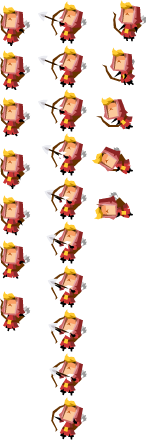
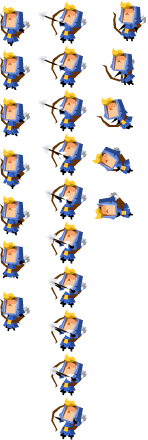
添加弓箭手

diff --git a/scripts/app/components/chars/archer.js b/scripts/app/components/chars/archer.js
@@ -1,0 +1,63 @@
+define(function(require, exports, module){
+	var Kinetic = require('kinetic');
+	var oo = require('xiaoming/oo');
+	var AbstractChar = require('./abstract-char');
+	var resourceLoader = require('xiaoming/resource-loader');
+
+	var Archer = function(options){
+		this._initArcher(options);
+	};
+
+	Archer.prototype = {
+		_initArcher: function(options){
+			this.options = oo.mix({
+				image: resourceLoader.get('archer'),
+				darkImage: resourceLoader.get('archer_dark'),
+				fixX: -8,
+				fixY: -16,
+				defaultAnimation: 'idle',
+				frameRate: 8,
+				index: 0,
+				cx: 0,
+				cy: 0,
+				animation: {
+					idle: [
+						{x: 0, y: 0, width: 36, height: 48},
+						{x: 0, y: 48, width: 36, height: 48},
+						{x: 0, y: 96, width: 36, height: 48},
+						{x: 0, y: 144, width: 36, height: 48},
+						{x: 0, y: 192, width: 36, height: 48},
+						{x: 0, y: 240, width: 36, height: 48},
+						{x: 0, y: 288, width: 36, height: 48},
+						{x: 0, y: 336, width: 36, height: 48}
+					],
+					atk: [
+						{x: 36, y: 0, width:56, height:44},
+						{x: 36, y: 44, width:56, height:44},
+						{x: 36, y: 88, width:56, height:44},
+						{x: 36, y: 132, width:56, height:44},
+						{x: 36, y: 176, width:56, height:44},
+						{x: 36, y: 220, width:56, height:44},
+						{x: 36, y: 264, width:56, height:44},
+						{x: 36, y: 308, width:56, height:44},
+						{x: 36, y: 352, width:56, height:44},
+						{x: 36, y: 396, width:56, height:44}
+					],
+					dead: [
+						{x: 92, y: 0, width:56, height:44},
+						{x: 92, y: 44, width:56, height:44},
+						{x: 92, y: 88, width:56, height:44},
+						{x: 92, y: 132, width:56, height:44},
+						{x: 92, y: 176, width:56, height:44}
+					]
+				}
+			}, this.options);
+			AbstractChar.call(this, options);
+		}
+
+	};
+
+    Kinetic.Util.extend(Archer, AbstractChar);
+
+    module.exports = Archer;
+});

diff --git a/scripts/app/models/chars/archer.js b/scripts/app/models/chars/archer.js
@@ -1,0 +1,39 @@
+define(function(require, exports, module){
+	var PlayerModel = require('./char-model');
+	var oo = require('xiaoming/oo');
+	var Equipment = require('../equipments/equipment');
+    var CharType = require('./char-type');
+	var Archer = function(options){
+		this._initArcher(options);
+	};
+	
+	Archer.prototype = {
+		_initArcher: function(options){
+			this.options = oo.mix({
+				iPropertiesData: {
+					hitPoint : 80,
+					attackPower : 50,
+					physicalArmor : 25,
+					magicArmor : 10,
+					dodge : .08,
+					criticalStrike : .2,
+					lucky : .3,
+					block : .3,
+					mobility : 4,
+					attackRange : {min: 1, max: 1}
+				}
+			},this.options);
+			PlayerModel.call(this, options);
+
+			//设置装备类型
+			this.armorType = Equipment.armorType.chain;
+			this.weaponType = Equipment.weaponType.sword;
+			this.units = '剑士';
+            this.charType = CharType.roleType.archer;
+		}
+	};
+
+	oo.extend(Archer, PlayerModel);
+
+	module.exports = Archer;
+});

diff --git a/scripts/app/controllers/game-begin-controller.js b/scripts/app/controllers/game-begin-controller.js
@@ -22,6 +22,9 @@ define(function(require, exports, module){
 				{'name': 'solider_red', type:'image', src: 'resource/images/solider_red.png'},
 				{'name': 'solider_red_dark', type:'image', src: 'resource/images/solider_red_dark.png'},
 				{'name': 'archer', type:'image', src: 'resource/images/archer.png'},
+				{'name': 'archer_dark', type:'image', src: 'resource/images/archer_dark.png'},
+				{'name': 'archer_red', type:'image', src: 'resource/images/archer_red.png'},
+				{'name': 'archer_red_dark', type:'image', src: 'resource/images/archer_red_dark.png'},
 				{'name': 'knight', type:'image', src: 'resource/images/knight.png'},
 				{'name': 'lotus', type:'image', src: 'resource/images/lotus.png'},
 				{name: 'round_btn', type: 'image', src: 'resource/images/round_btn.png'},

diff --git a/scripts/app/models/chars/char-factory.js b/scripts/app/models/chars/char-factory.js
@@ -1,6 +1,7 @@
 define(function(require, exports, module){
     var CharType = require('./char-type');
     var Swordman = require('./swordman');
+	var Archer = require('./archer');
 
     var CharFactory = {
 
@@ -18,6 +19,7 @@ define(function(require, exports, module){
     };
 
     CharFactory.registClass(CharType.roleType.swordman, Swordman);
+	CharFactory.registClass(CharType.roleType.archer, Archer);
 
     module.exports = CharFactory;
 });

diff --git a/scripts/app/components/chars/char-factory.js b/scripts/app/components/chars/char-factory.js
@@ -1,6 +1,7 @@
 define(function(require, exports, module){
     var CharType = require('app/models/chars/char-type');
     var Swordman = require('./swordman');
+	var Archer = require('./archer');
 
     var CharFactory = {
 
@@ -18,6 +19,7 @@ define(function(require, exports, module){
     };
 
     CharFactory.registClass(CharType.roleType.swordman, Swordman);
+	CharFactory.registClass(CharType.roleType.archer, Archer);
 
 
 

diff --git a/scripts/app/controllers/game-main-controller.js b/scripts/app/controllers/game-main-controller.js
@@ -39,7 +39,7 @@ define(function(require, exports, module){
             this.player1.setCoordinate(10, 5);
 			this.player1.gameModel = this.gameModel;
 
-			this.player4 = CharFactory.createCharacter(CharType.roleType.swordman);
+			this.player4 = CharFactory.createCharacter(CharType.roleType.archer);
 			this.player4.setCoordinate(10, 6);
 			this.player4.gameModel = this.gameModel;
 

diff --git a/scripts/app/models/chars/char-type.js b/scripts/app/models/chars/char-type.js
@@ -1,6 +1,7 @@
 define({
     roleType: {
-        swordman: 1
+        swordman: 1,
+	    archer: 2
     },
 
     idColorType: {
